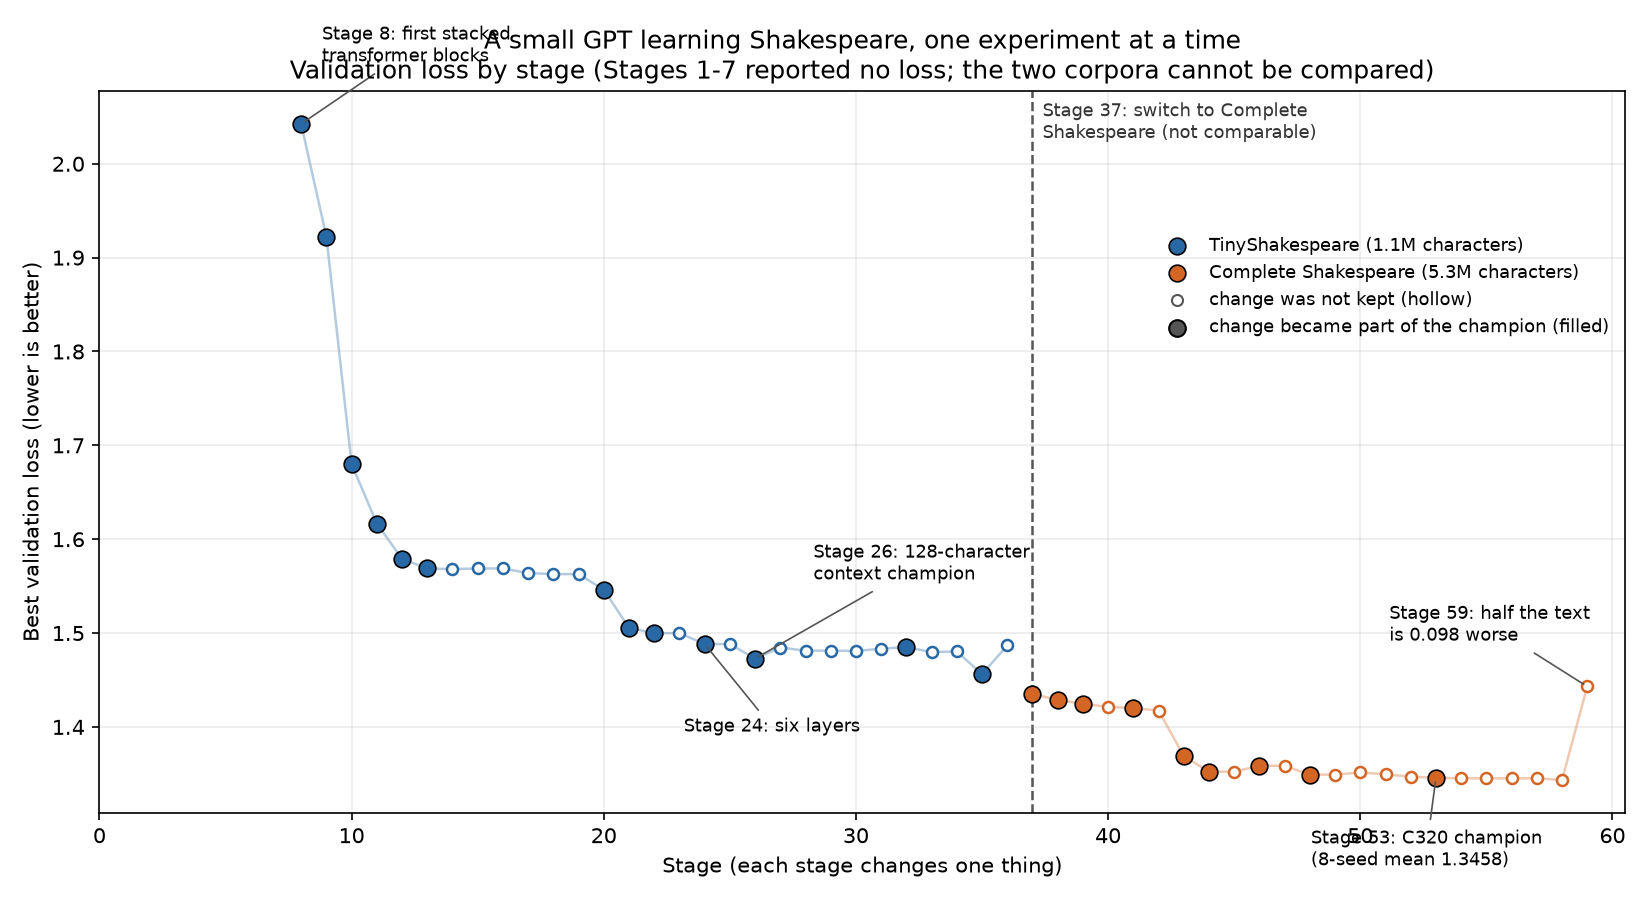
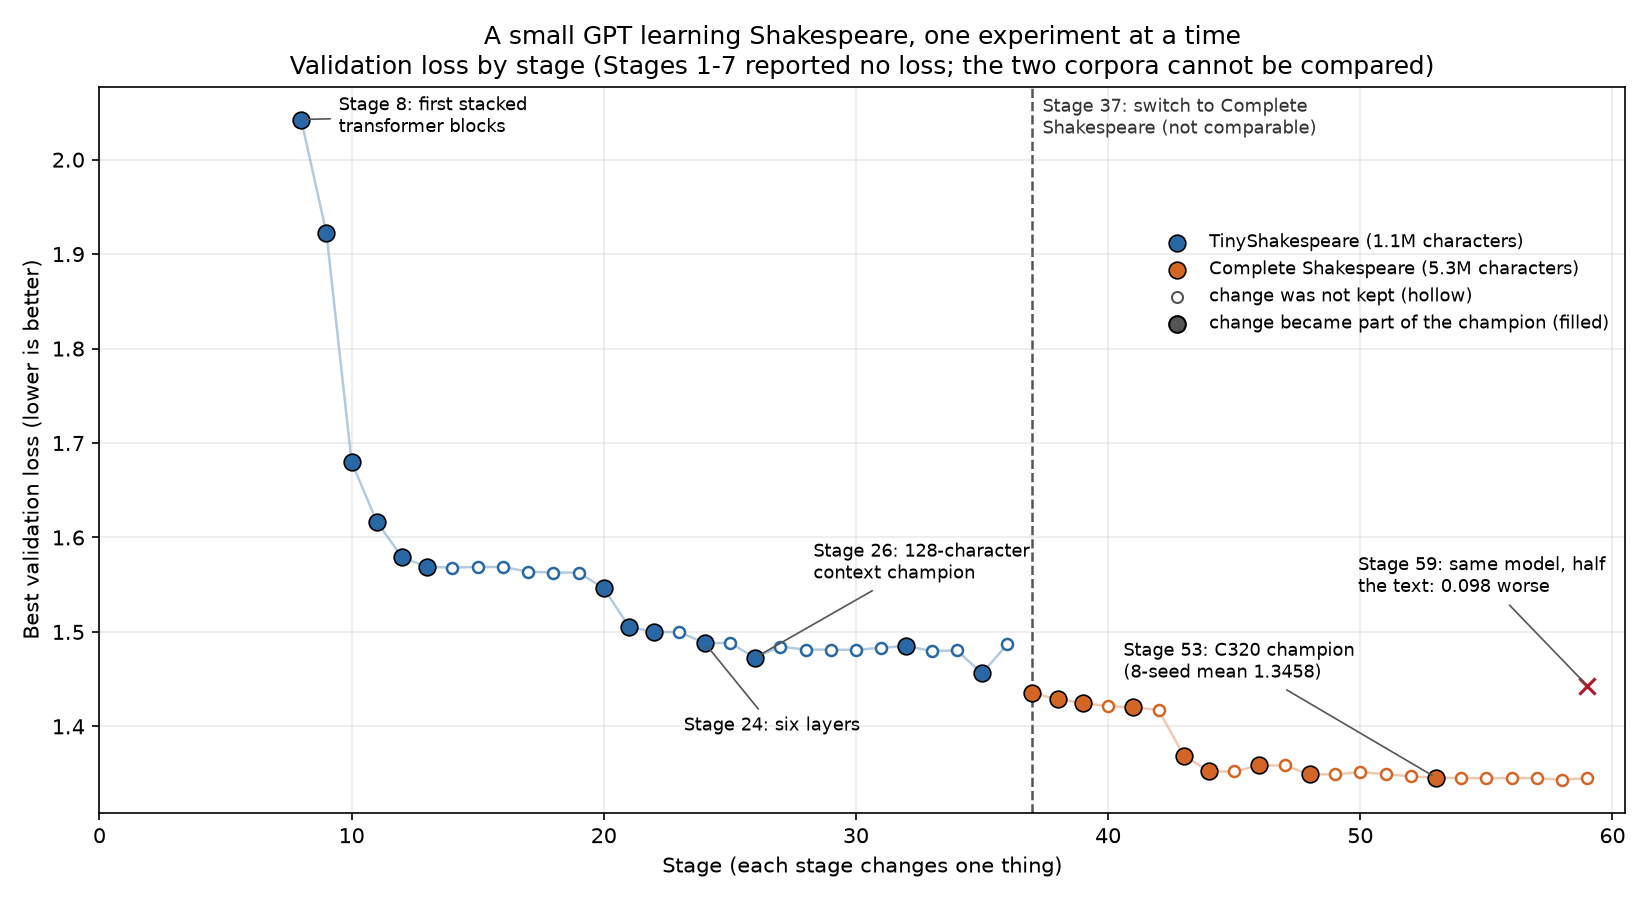
showcase: fix chart labels and stage 59 row

diff --git a/my-gpt/experiments/showcase_progress_plot.py b/my-gpt/experiments/showcase_progress_plot.py
@@ -21,12 +21,13 @@ COLORS = {"tiny": "#2768a5", "complete": "#d46625"}
 LABELS = {"tiny": "TinyShakespeare (1.1M characters)", "complete": "Complete Shakespeare (5.3M characters)"}
 # stage -> (text, (dx, dy) offset in points)
 MILESTONES = {
-    8: ("Stage 8: first stacked\ntransformer blocks", (10, 30)),
+    8: ("Stage 8: first stacked\ntransformer blocks", (18, -6)),
     24: ("Stage 24: six layers", (-10, -42)),
     26: ("Stage 26: 128-character\ncontext champion", (28, 38)),
-    53: ("Stage 53: C320 champion\n(8-seed mean 1.3458)", (-60, -42)),
-    59: ("Stage 59: half the text\nis 0.098 worse", (-95, 22)),
+    53: ("Stage 53: C320 champion\n(8-seed mean 1.3458)", (-150, 48)),
 }
+# Stage 59's half-data arm (docs/interpretations/stage_59.md), drawn apart from the lineage.
+HALF_DATA = (59, 1.443079)
 
 
 def load_rows() -> list[dict]:
@@ -51,6 +52,10 @@ def render() -> None:
     for stage, (text, offset) in MILESTONES.items():
         ax.annotate(text, (stage, by_stage[stage]), xytext=offset, textcoords="offset points",
                     fontsize=8.5, arrowprops={"arrowstyle": "-", "color": "#555555", "lw": 0.8})
+    ax.scatter([HALF_DATA[0]], [HALF_DATA[1]], marker="x", s=60, color="#b2182b", zorder=3)
+    ax.annotate("Stage 59: same model, half\nthe text: 0.098 worse",
+                HALF_DATA, xytext=(-110, 45), textcoords="offset points", fontsize=8.5,
+                arrowprops={"arrowstyle": "-", "color": "#555555", "lw": 0.8})
     ax.axvline(37, color="#555555", linestyle="--", linewidth=1.2, zorder=0)
     ax.text(37.4, ax.get_ylim()[1] - 0.01, "Stage 37: switch to Complete\nShakespeare (not comparable)",
             va="top", fontsize=8.5, color="#333333")

diff --git a/my-gpt/test_showcase_results.py b/my-gpt/test_showcase_results.py
@@ -41,7 +41,8 @@ class ShowcaseResultsTest(unittest.TestCase):
             self.assertLessEqual(len(row["note"].split()), 12, stage)
 
     def test_anchors(self):
-        self.assertEqual(round(float(self.by_stage[59]["best_val_loss"]), 4), 1.4431)
+        self.assertEqual(round(float(self.by_stage[59]["best_val_loss"]), 4), 1.3452)
+        self.assertIn("1.443079", self.by_stage[59]["metric"])
         champion = float(self.by_stage[53]["best_val_loss"])
         self.assertTrue(1.3450 <= champion < 1.3460)  # 1.345x
 
